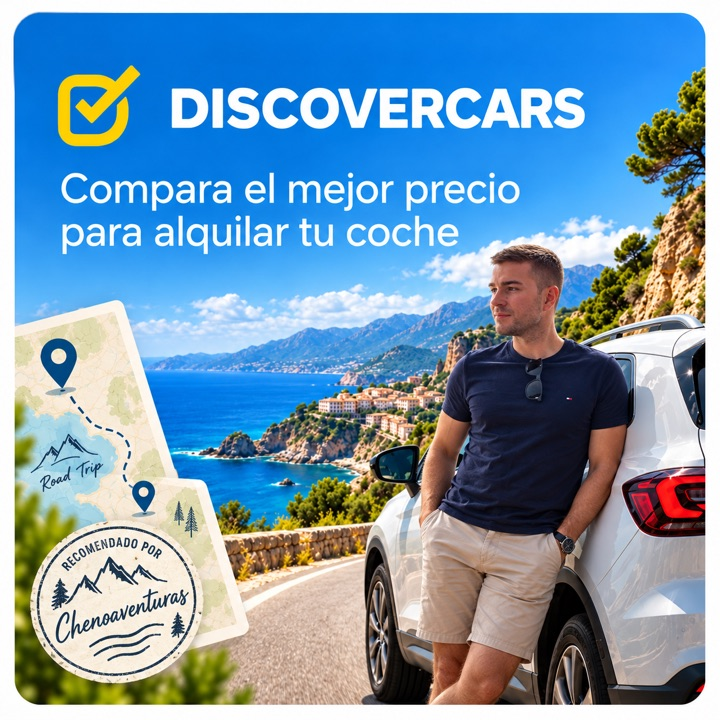
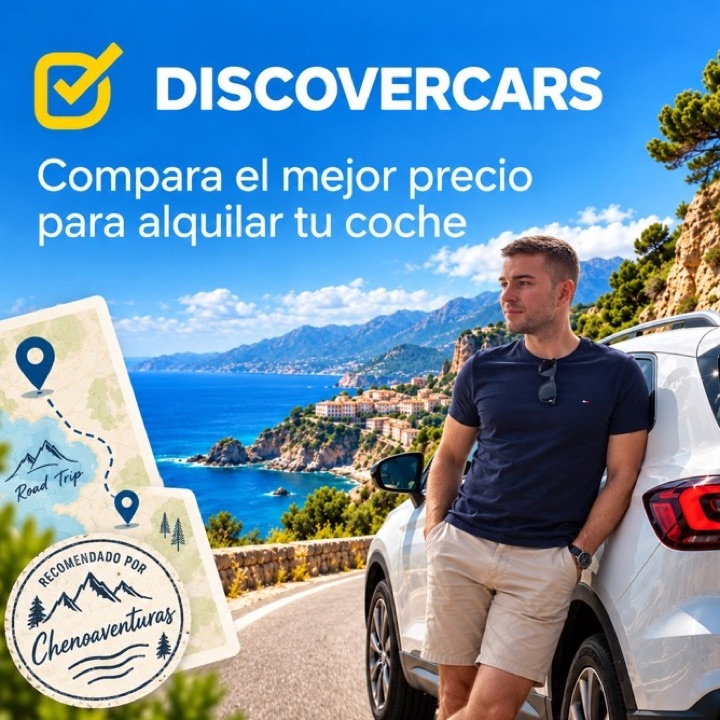
Ajustes: "¿Sabías que?" más grande, tarjetas sin borde, DiscoverCars a sangre
- .curiosbar__label pasa de .74rem a 1.12rem (mismo tamaño que el
  subtítulo del hero); interletrado reducido
- .deal: quitado el borde/hairline; solo queda una sombra suave
- discovercars.jpg recortada ~7% para eliminar el marco blanco y que
  llene el cuadro como las demás

diff --git a/assets/css/styles.css b/assets/css/styles.css
@@ -323,8 +323,8 @@ p { margin: 0 0 1em; }
   padding: .35em 0 .35em 1em;
 }
 .curiosbar__label {
-  font-family: var(--font-head); text-transform: uppercase; letter-spacing: .18em;
-  font-size: .74rem; color: var(--gold); white-space: nowrap;
+  font-family: var(--font-head); text-transform: uppercase; letter-spacing: .1em;
+  font-size: 1.12rem; color: var(--gold); white-space: nowrap;
 }
 .curiosbar__text {
   font-size: 1rem; color: rgba(255,255,255,.9); min-height: 1.6em;
@@ -543,11 +543,10 @@ p { margin: 0 0 1em; }
 .deal {
   border-radius: 12px; overflow: hidden;
   background: var(--night); color: #fff;
-  border: 1px solid rgba(20, 25, 20, .08);
-  box-shadow: 0 2px 8px rgba(20, 25, 20, .10), 0 16px 36px rgba(20, 25, 20, .10);
+  box-shadow: 0 14px 32px rgba(20, 25, 20, .09);
   transition: transform .15s ease, box-shadow .15s ease;
 }
-.deal:hover { transform: translateY(-3px); box-shadow: 0 6px 14px rgba(20, 25, 20, .12), 0 22px 44px rgba(20, 25, 20, .14); }
+.deal:hover { transform: translateY(-3px); box-shadow: 0 20px 42px rgba(20, 25, 20, .13); }
 .deal[open] { transform: none; }
 .deal__head {
   list-style: none; cursor: pointer;
@@ -774,7 +773,7 @@ p { margin: 0 0 1em; }
 
 @media (max-width: 560px) {
   body { font-size: 16px; }
-  .hero__text, .pagehead p, .lead { font-size: 1rem; }
+  .hero__text, .pagehead p, .lead, .curiosbar__label { font-size: 1rem; }
   .curiosbar { max-width: 100%; gap: .4em; }
   .curiosbar__text { font-size: .95rem; }
   .cardgrid, .curios__grid, .svcgrid, .dealgrid { grid-template-columns: 1fr; }
